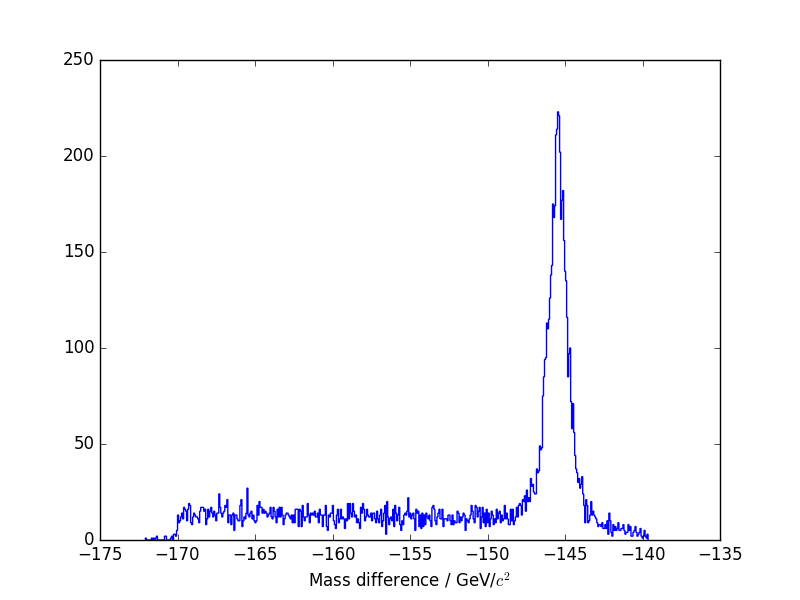
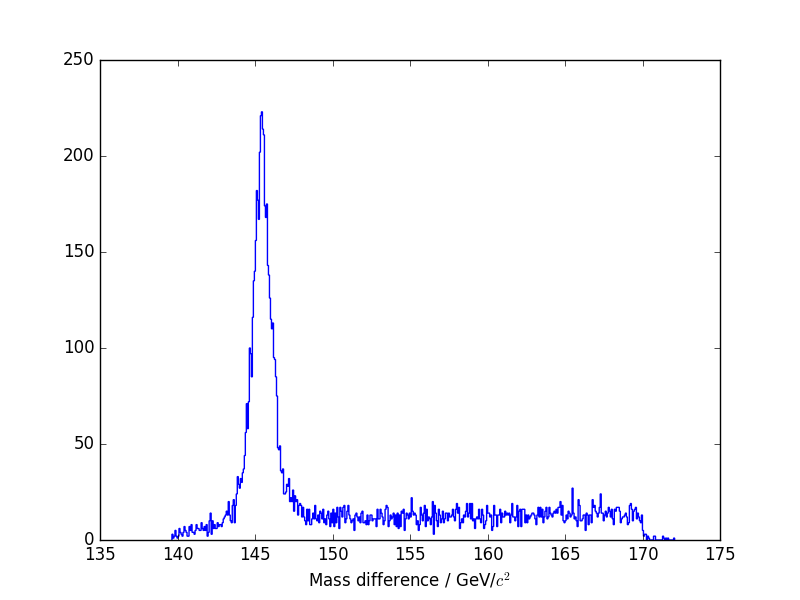
Reverse 'mass difference' graph

diff --git a/Code/Lifetime.py b/Code/Lifetime.py
@@ -156,7 +156,7 @@ pl.savefig('dstar-mass-dist.png')
 pl.close()
 
 # mass difference dist
-mass_diffs = [x1 - x0 for x0, x1 in zip(ds_masses, masses)]
+mass_diffs = [x0 - x1 for x0, x1 in zip(ds_masses, masses)]
 pl.hist(mass_diffs, bins=500, histtype='step', fill=False)
 pl.xlabel(r'Mass difference / GeV/$c^2$')
 pl.savefig('mass-diff-dist.png')
